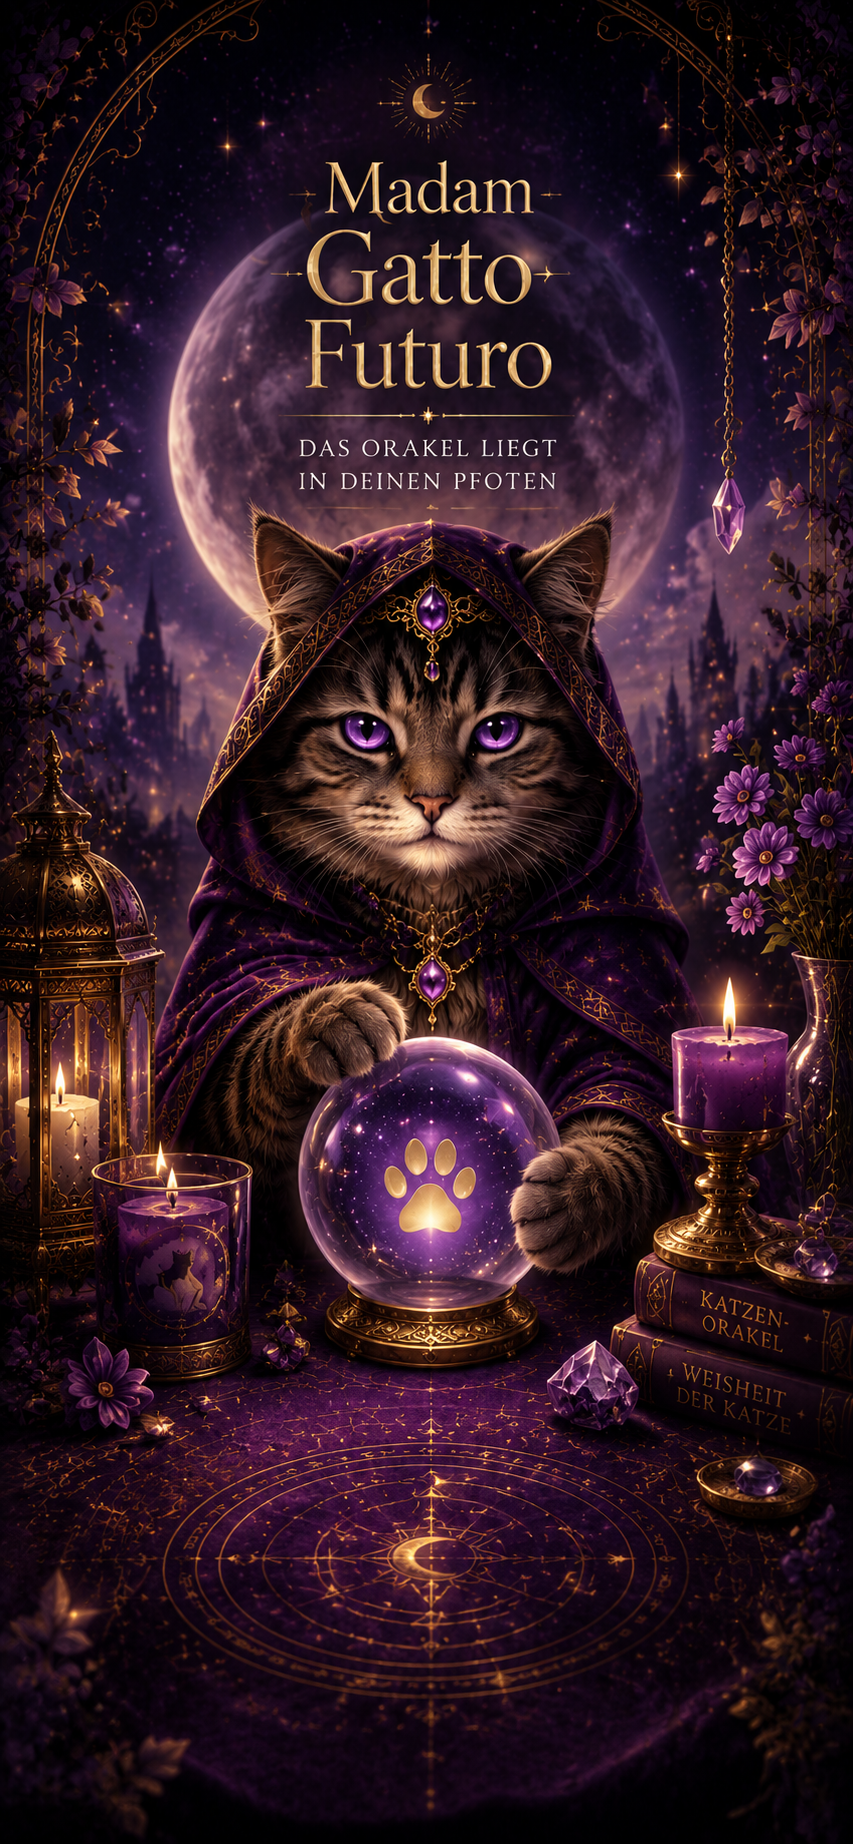
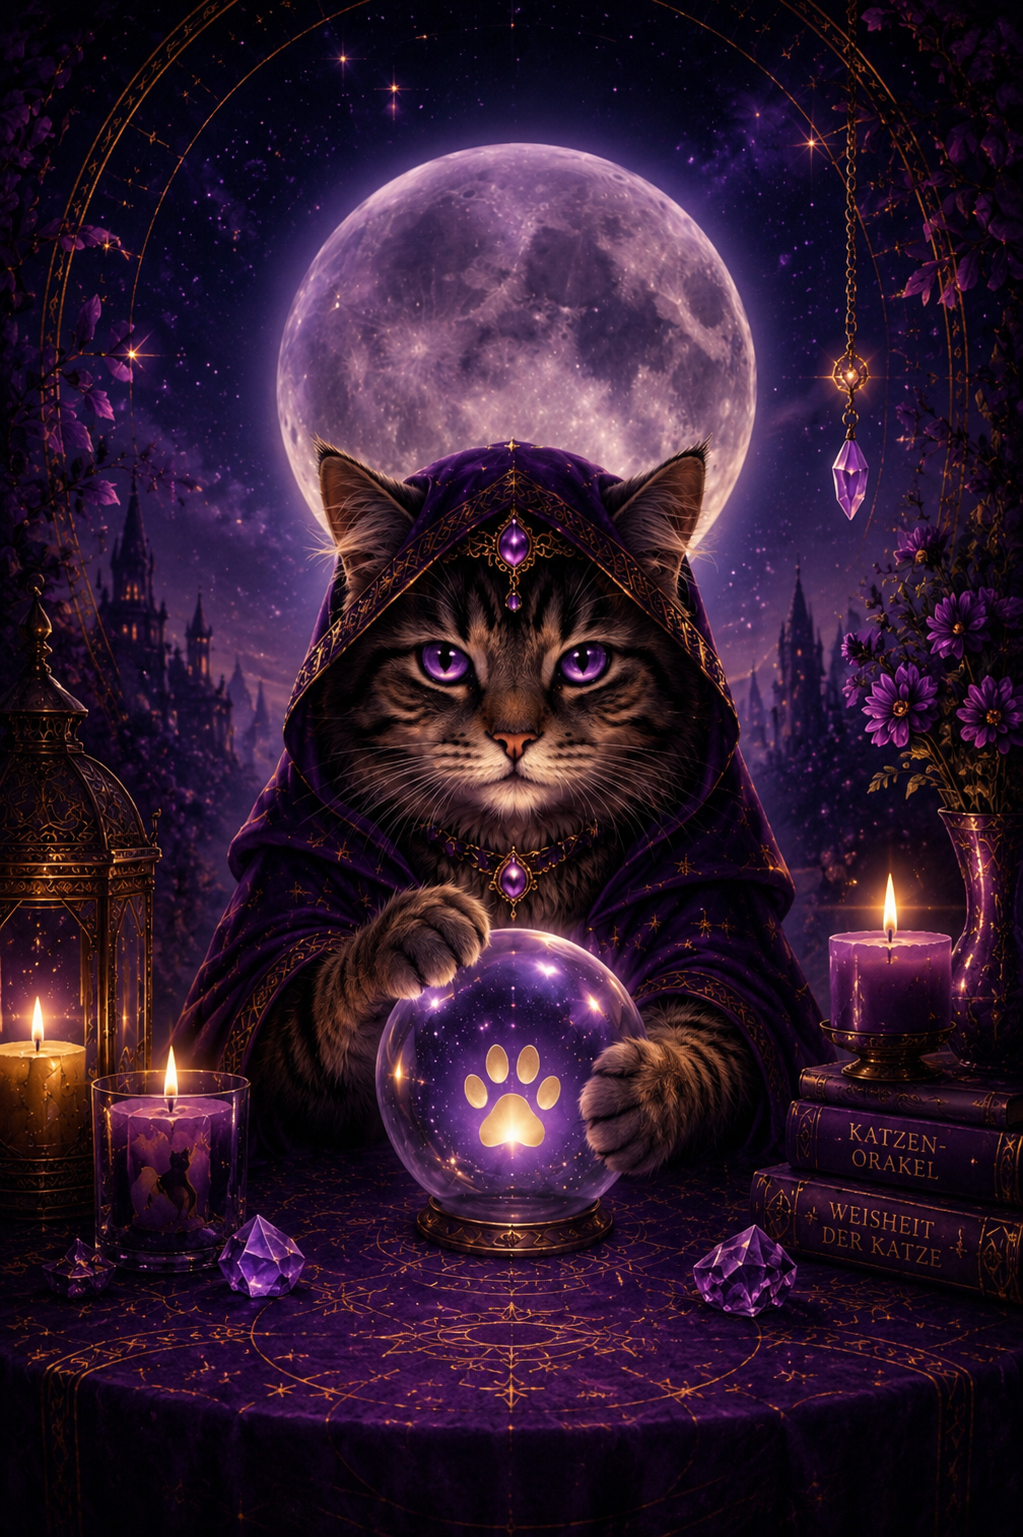
Add galaxy background assets

diff --git a/lib/features/astrology/presentation/pages/astrology_input_page.dart b/lib/features/astrology/presentation/pages/astrology_input_page.dart
@@ -30,6 +30,18 @@ class AstrologyInputPage extends StatelessWidget {
               ),
             ),
           ),
+          IgnorePointer(
+            child: Opacity(
+              opacity: 0.32,
+              child: SizedBox.expand(
+                child: Image.asset(
+                  'assets/images/galaxy.png',
+                  fit: BoxFit.cover,
+                  alignment: Alignment.center,
+                ),
+              ),
+            ),
+          ),
           const IgnorePointer(child: _StarDustLayer()),
           IgnorePointer(
             child: Opacity(